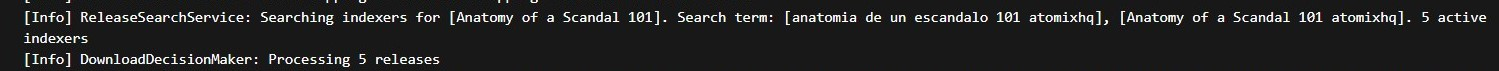
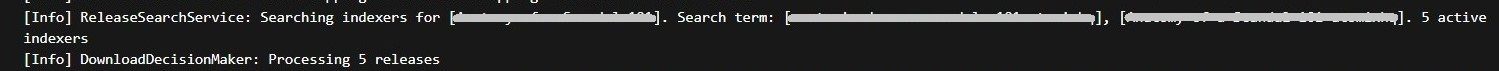
Update search format  to: "{Series.Title} Cap.{SeasonNumber:0}{EpisodeNumber:00}"

Changed region(s): [[0.5217, 0.169, 0.9513, 0.3099], [0.2762, 0.1972, 0.4603, 0.3099]]

diff --git a/src/NzbDrone.Core/Indexers/Newznab/NewznabRequestGenerator.cs b/src/NzbDrone.Core/Indexers/Newznab/NewznabRequestGenerator.cs
@@ -320,10 +320,11 @@ namespace NzbDrone.Core.Indexers.Newznab
                     pageableRequests.Add(GetPagedRequests(MaxPages,
                         Settings.AnimeCategories,
                         "search",
-                        string.Format("&q={0}+{1:0}{2:00} atomixhq",
+                        string.Format("&q={0}+Cap.{1:0}{2:00}",
                         NewsnabifyTitle(queryTitle),
                         searchCriteria.SeasonNumber,
                         searchCriteria.EpisodeNumber)));
+
 
                     if (Settings.AnimeStandardFormatSearch && searchCriteria.SeasonNumber > 0 && searchCriteria.EpisodeNumber > 0)
                     {

diff --git a/README.md b/README.md
@@ -1,11 +1,11 @@
-# Modified version of sonarr for atomixHQ
+# Modified version of sonarr for atomoHD, atomixHQ, etc.
 
 Serie type: "anime", will generate the following search format in jackett:
 
-"{Series.Title} {SeasonNumber:0}{EpisodeNumber:00} atomixhq"
+"{Series.Title} Cap.{SeasonNumber:0}{EpisodeNumber:00}"
 <img src="Sample1.jpg" alt="Sample anime">
 
-The title field allows add search terms:
+The title field allows add search terms (scene mapping):
  
 <img src="Sample2.jpg" alt="Sample change title">
 
